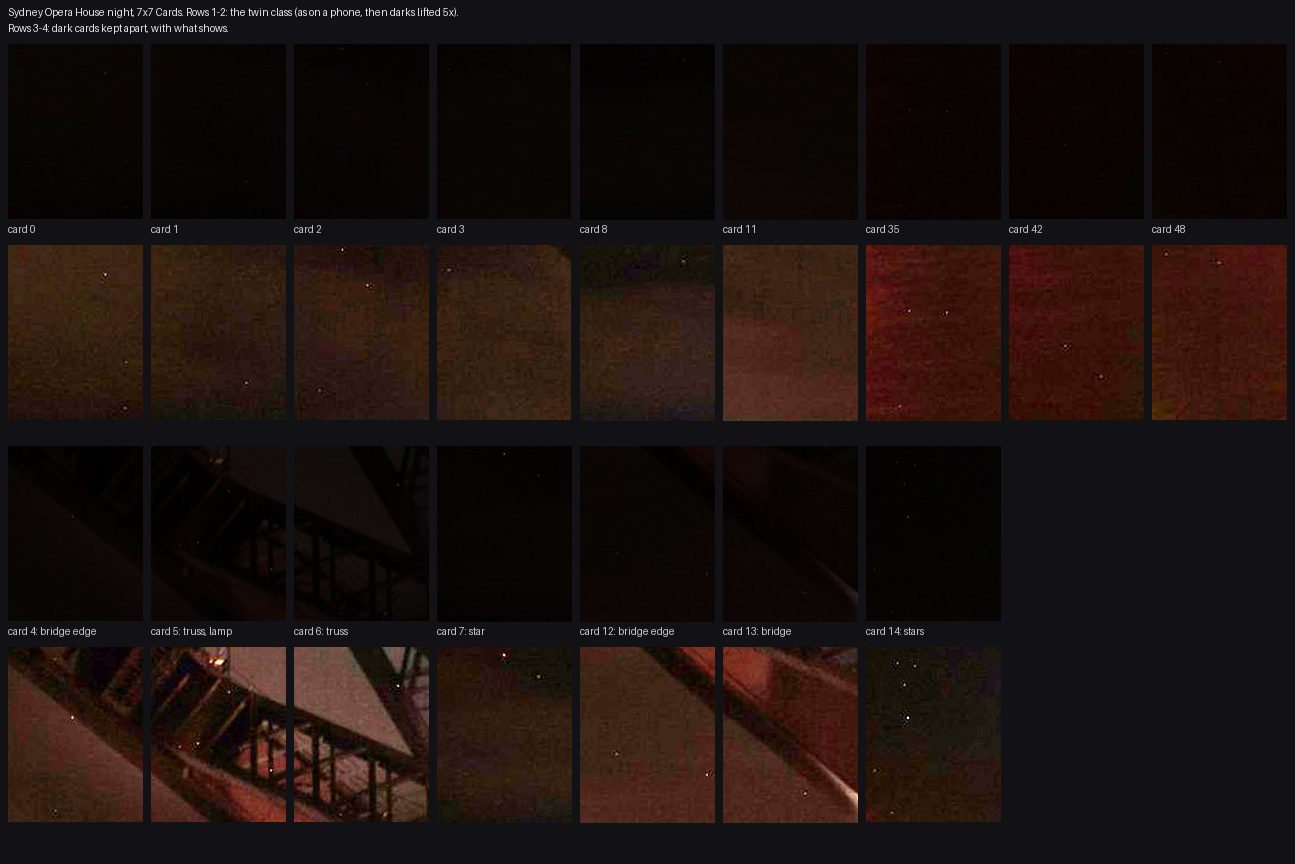
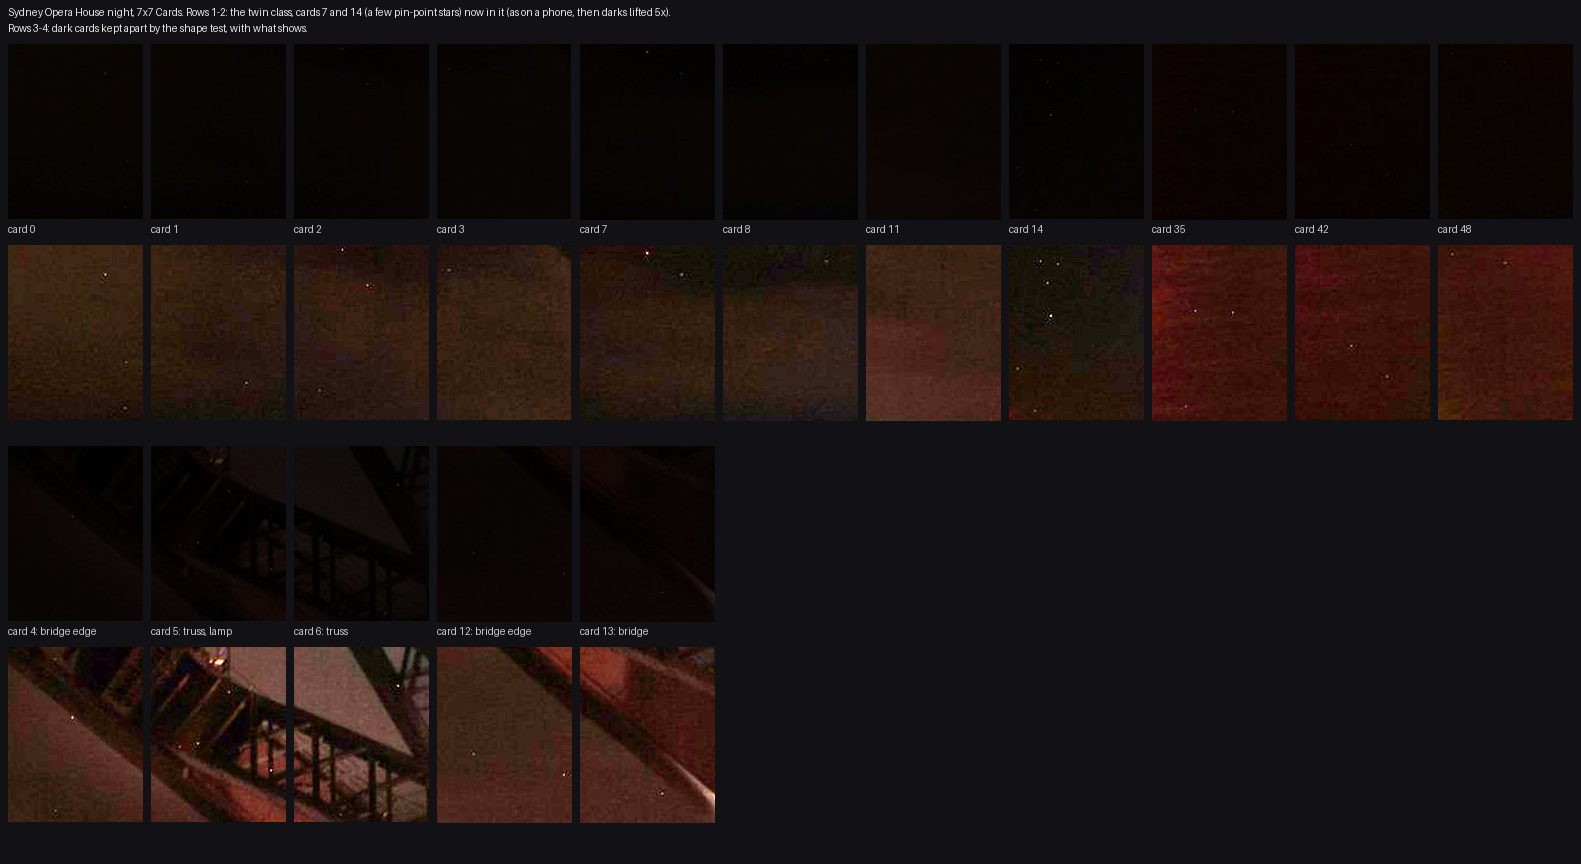
docs/twins.md: the middle option for specks on black, the shape test, evidence

diff --git a/docs/twins.md b/docs/twins.md
@@ -19,10 +19,14 @@ simulator `integration_test/twins_test.dart` (a sky) and `twins_night_test.dart`
 
 1. **Twins look the same to the eye**, not "95% of pixels" (see the measure). A faint cloud, a wire,
    a bird or a speck on one card and not the other keeps them apart; noise and the faintest stars of
-   a night sky do not (near black the eye tells much less apart).
+   a night sky do not (near black the eye tells much less apart), nor do a few pin-point stars or
+   hot pixels on black (the middle option, below). In the dark a line, an edge, a shape, a texture
+   (a starfield) or a larger light (a lit window, a lamp, a light trail) still keeps them apart.
 2. **Only cards of one shape** (`Tiling.classOf`: Cards and Squares have one; triangles up, down and
    each kind of half piece; hexagons whole and each kind of cut piece). A class of twins is a set in
    which every two cards are twins (built in card order, so every device builds the same classes).
+   Pre-set pieces (docs/boards.md: the only piece of their shape on the 3x3 triangle board and the
+   4x4 and 6x6 honeycombs, dealt in place) therefore never have a twin.
 3. **Only loose cards trade identities**: never a card in place, never a card in a joined group, so
    nothing the player built changes.
 4. **Placing and joining.** After a move (a drop, a tap-tap, Magic), every card the move put
@@ -71,6 +75,11 @@ simulator `integration_test/twins_test.dart` (a sky) and `twins_night_test.dart`
   and on a near-black sample how far its darkest and brightest 3 x 3 spot stand out by their glow
   (the brightest channel, so a red light trail counts like a white star), looking no further than
   the card's own pixels.
+- **Specks on black put out first**: a card with a few pin-point stars or hot pixels on dark ground
+  (at most 8) is sampled with them painted over in the colour around them (`TwinFinder._despeckle`,
+  below), so they count neither in its colours nor in its spots.
+- **Screen lightness**: every box also keeps its lightness from the gamma-encoded values (what the
+  screen shows), for the shape test on dark cards.
 
 Two cards of one shape are compared sample by sample in CIELAB with **CIEDE2000** (ΔE00; about 1 is
 a just-noticeable difference side by side). They are twins only when all of these hold:
@@ -81,7 +90,8 @@ a just-noticeable difference side by side). They are twins only when all of thes
 | 95% of samples, and 95% of the outline's | 1.8 | a faint cloud or haze over part of the card, a band along an edge |
 | Every sample | 3.0 | anything distinct |
 | Speck: a sample's darkest or lightest pixel stands out more on one card | 1.6 lightness, or 3x the card's grain | a wire, a bird, a speck of dust; grainy cards may differ by their grain, which hides as much from the eye |
-| Spot, on samples of both cards at L* 15 or less: the brightest or darkest 3 x 3 pixels stand out more on one card | 3.4 glow, or 3x the card's spot grain | a star that shows, a lamp, a lit window, a light trail; not sensor noise, JPEG blocks or the faintest stars |
+| Spot, on samples of both cards at L* 15 or less: the brightest or darkest 3 x 3 pixels stand out more on one card | 3.4 glow, or 3x the card's spot grain | a star on a starfield card, a lamp, a lit window, a light trail; not sensor noise, JPEG blocks, the faintest stars or the few specks put out first |
+| Shape, on cards both at L* 20 or less: how steeply the difference in screen lightness (over 3 x 3 boxes) changes across two boxes, along a quarter of the card | 1.0 (lightness 0 to 100), or 3x the cards' grain | an edge, a silhouette or a band of light in the dark (the Sydney bridge's edge), which CIEDE2000 near black calls invisible |
 
 ### Near black and near white
 
@@ -114,22 +124,92 @@ every square board, with the contact sheets of the pairs nearest the limits.
 | 24 bright pictures | Cards 18%, Squares 8%, Triangles 15%, Hexagons 4% of boards with twins; 183 twin pairs | the same boards; 209 twin pairs |
 | 83 pictures of the first sample (mid tones unchanged), boards with twins | Cards 25%, Squares 21%, Triangles 32%, Hexagons 27% | 28%, 24%, 35%, 29% (its dark backgrounds) |
 
-On the Sydney board the cards that show something stay apart: the bridge's truss and lamp (5, 6),
-its edge (4, 12, 13), a star (7) and a few stars together (14): `docs/images/twins-night-sydney.jpg`
-shows each as on a phone and with the darks lifted 5x. Three tries were rejected by the sheets:
-relaxing differences to half at black let the truss through; a spot limit of 4.5 let a firework's
-thin red light trail and a launch tower's lattice through; measuring spots by lightness instead of
-glow let the red trail through at 3.2. Sheets: `docs/images/twins-dark-accepted-borderline.jpg`,
+On the Sydney board the cards that showed something stayed apart: the bridge's truss and lamp (5,
+6), its edge (4, 12, 13), a star (7) and a few stars together (14). Three tries were rejected by the
+sheets: relaxing differences to half at black let the truss through; a spot limit of 4.5 let a
+firework's thin red light trail and a launch tower's lattice through; measuring spots by lightness
+instead of glow let the red trail through at 3.2. Sheets: `docs/images/twins-dark-accepted-borderline.jpg`,
 `twins-dark-rejected-borderline.jpg`, `twins-dark-speck-rejected.jpg`,
 `twins-bright-accepted-borderline.jpg`.
 
+### A few specks on black (the middle option)
+
+Owner, 2026-10-17, on the same board: the corner cards 7 and 14, a few pin-point stars on the black
+sky, were still not twins of the black cards. The owner chose the middle option: cards whose only
+difference from a twin is a few tiny isolated specks (stars, a sensor's hot pixels) count as the
+same; any line, edge, shape, texture or larger light keeps them apart. "It should not
+swap too much, or a player would be confused about what happened when they actually made a
+mistake. But also make sure it's not too strict, or it won't trigger when it is supposed to, when
+pieces are actually too similar for the eye to notice."
+
+- **A speck** (`TwinFinder._findSpecks`, once per picture): a pixel that is the brightest of its
+  3 x 3 and shines at least 6 (glow, 0 to 100; `speckMin`) above the median of the 16 pixels
+  around that 3 x 3, while none of those 16 shines more than 4 (`speckRing`) or a quarter of the
+  speck's own light (`speckRingShare`, a bright star's halo) above the median: its light stays
+  within 3 x 3 pixels, about 1 pt on a phone. Only on dark ground: the ring's colour at L* 15 or
+  less. A line runs through the ring, a lamp's halo fills it, an edge splits it: none is a speck.
+- **A few** (`maxSpecks`): a card with 1 to 8 specks is sampled with each speck's 3 x 3 painted in
+  its ring's colour (`_despeckle`), so the specks count neither in its colours nor in its spots; a
+  card with more (a starfield, the Milky Way, a grainy night) is sampled as it is, and its stars
+  keep it apart as before. The count is the card's own, so two cards of 3 and 6 stars are compared
+  as two plain cards.
+- **The shape test** (`shapeLimit`, `_shapeDifference`). The stars had been what kept card 4 (the
+  bridge's edge, a step of 5 code values across the black) apart: CIEDE2000 near black calls such a
+  step invisible (ΔE00 about 0.5 after the dark discount), yet in a dark picture the eye adapts and
+  sees a long straight edge a few code values high. So on cards both at L* 20 or less the boxes'
+  screen lightness (from the gamma-encoded values) is averaged over 3 x 3 boxes (about 6 pt; noise,
+  JPEG blocks and specks average out), the two cards' difference is taken, and how steeply it
+  changes across two boxes is read box by box: an edge on one card and not the other changes it
+  steeply along the edge, an even change in tone or a smooth gradient hardly at all. The value is
+  that steepness at the k-th steepest box (k about half the boxes across: the edge runs a quarter
+  of the card); twins stay at 1.0 or less (lightness 0 to 100), or 3x the cards' grain (the median
+  of how far a box is from its 3 x 3 average) on very grainy cards. A first version took the plane
+  that fits the difference best and its 95th percentile: it missed a corner of the bridge on the
+  triangle boards and held soft blurred gradients (Bokeh, blurred city lights) against each other,
+  so it was dropped.
+
+The limits were set from the before and after sheets of the same 132 pictures (the pairs newly
+accepted, newly kept apart and just over the limit, each at phone size, dimmed 16% like a loose
+card, and with the darks lifted 5x), looked at by eye:
+
+| | Before | Now |
+| --- | --- | --- |
+| Sydney night, 7x7 Cards | 0, 1, 2, 3, 8, 11, 35, 42, 48 | 0, 1, 2, 3, **7**, 8, 11, **14**, 35, 42, 48; the bridge's edge, truss and lamp (4, 5, 6, 12, 13) stay apart |
+| 25 dark pictures, boards with twins | Cards 33%, Squares 28%, Triangles 43%, Hexagons 38% | 33%, 29%, 44%, 38% |
+| 25 dark pictures, cards that have a twin; twin pairs | 6.7%; 2,390 | 7.0%; 2,644 (363 newly twins, 109 newly kept apart) |
+| 24 bright pictures | 209 twin pairs | unchanged (no dark ground) |
+| 83 pictures of the first sample | 3.9% of cards have a twin; 3,410 twin pairs | 3.9%; 3,299 (31 newly twins, 142 newly kept apart) |
+
+- **Newly twins** (`docs/images/twins-dark-specks-accepted.jpg`, the 12 nearest the limit): night
+  skies with one to six stars on one card and none or others on the other (Sydney 7 and 14, Tokyo
+  Skytree's blue night sky, the Roman Forum's, a lantern's black ground with a few red dots). At
+  phone size each pair looks the same but for the stars. The closest are at the limit of the colour
+  tests (mean 0.9 to 1.0 on Tokyo's sky gradient), which the stars alone had kept apart before.
+- **Newly kept apart** (`docs/images/twins-dark-shape-rejected.jpg`): an edge or a structure on one
+  card that shows when the darks are lifted and faintly or not at all at phone size: the Sydney
+  bridge's edge and corners (71 pairs, mostly on its triangle boards), a nebula's wisp, a light band
+  on the Danube, a darker diagonal in blurred lights, and on the Copenhagen night giant pack picture
+  (129 pairs) bushes, walls and railings in the dark, which a player sees zoomed in on a giant
+  board. The few just over the limit that look the same at phone size and differ only faintly when
+  lifted are grainy or blurred (a pagoda's grainy dark sky, Bokeh): a measure this simple cannot
+  tell those from a faint edge, and the owner's rule leans to keeping an edge apart.
+- **Sydney's bridge corners on the triangle boards** stay just under the limit on two pairs (0.91
+  and 0.94: a dark wedge in a corner that shows only lifted); card 4's edge on the 7x7 Cards board
+  measures 1.4 to 1.6, the plain sky cards at most 0.65.
+
 Cards are compared only when their mean colours are close (a pair whose means differ more than the
 mean limit allows cannot pass), and a 4 x 4 grid of part colours rejects most other pairs at once,
-so even a 666-piece board compares only the near pairs in full. Timings in a debug test run (the
-app's release build is faster): a normal board 5 to 170 ms (a dark one up to about 250 ms: its
-spots are read too), the sample's giant boards 220 to 575 ms, a synthetic 666-piece board with a
-plain sky over a third of it about 1 s, and its deal with 222 twin cards 150 ms (measured once per
-picture and board, in an isolate; the deal on the UI thread while "Dealing the cards" shows).
+so even a 666-piece board compares only the near pairs in full. The specks are looked for once per
+picture and board, in the dark parts only (blocks of 16 x 16 pixels with a quarter of dark ground);
+the shape test runs last, only for dark pairs that pass every other test. Timings in a debug test
+run (the app's release build is faster): a normal board 5 to 170 ms; a dark one takes longer, its
+specks and spots read too (the 7x7 boards of the 25 dark pictures, measured against the measure
+before the specks on the same busy machine: median 98 ms before, 172 ms now, at most 0.6 s before
+and 1.2 s now); the sample's giant boards 220 to 575 ms before the specks and about 40% more with
+them (340 to 460 ms for the Copenhagen night picture against 230 to 330 ms); a synthetic 666-piece
+board with a plain sky over a third of it about 1 s, and its deal with 222 twin cards 145 ms
+(measured once per picture and board, in an isolate; the deal on the UI thread while "Dealing the
+cards" shows).
 
 ## The evidence (October 2026)
 
@@ -160,6 +240,12 @@ To measure again (pictures listed in a JSON file, see the tool's header):
 TWINS_SAMPLE=sample.json TWINS_OUT=out flutter test tools/dev/twins_report_test.dart
 .venv/bin/python tools/dev/twins_sheets.py out/twins_report.json out/sheets
 ```
+
+The report notes for every pair near the limits its shape test against its limit (`shape`) and the
+specks each card had put out (`specks`, 9 for more than 8), and the sheets print both.
+`tools/dev/twins_diff_sheets.py` compares two reports of the same pictures (before and after a
+change): the pairs newly accepted, newly kept apart and just over the limit, at phone size and
+lifted.
 
 ## In the game
 
